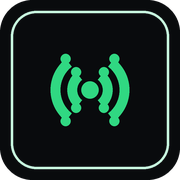
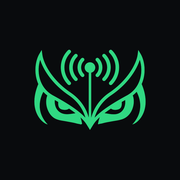
feat(brand): owl mark replaces the radio glyph
The name said OwlShack and the icon said "wireless" -- the one thing every
other mesh tool's icon also says. The new mark is an owl whose crown is an
antenna, so the two readings are one shape rather than two ideas.

The artwork is a hybrid export: the dot and six arcs are vector paths, but
the crescents and eyes are a 1696px grayscale raster used as a luminance
mask. That cannot be recoloured by changing a fill, which matters because
the app has a light mode. So the sidebar masks the SVG and paints it with
background: var(--primary) -- the alpha is the mark, the colour comes from
the theme. A 512px-wide copy is shipped for that (owl-mark.svg, half the
size of the master); the master stays in docs/.

Icons are composited rather than screenshotted. A headless render flattens
alpha, which silently turned every rounded corner white, and its colour
profile shifted the ground from #090b0d to #111315. They are now drawn at
4x and downsampled, so the ground is exact and the corners are real
transparency.

icon-192, icon-512 and favicon-32 keep transparent corners as before.
maskable-512 and apple-touch-icon are deliberately opaque and full-bleed:
Android crops the maskable to a circle, and iOS renders transparency in an
apple-touch-icon as black -- the previous file had transparent corners and
would have shown black ones on a home screen.

Known weak spot: at 32px the mast disappears and the arcs merge, so the
[…]

diff --git a/web/frontend/src/components/AppShell.tsx b/web/frontend/src/components/AppShell.tsx
@@ -366,10 +366,7 @@ export function AppShell({ children }: { children: React.ReactNode }) {
         <SidebarHeader className="border-b border-sidebar-border h-14 px-3 justify-center">
           <Link to="/" className="flex items-center gap-2.5">
             <div className="relative size-8 grid place-items-center rounded-sm bg-primary/10 border border-primary/30 shrink-0">
-              <Radio
-                className="size-4 text-primary"
-                strokeWidth={2}
-              />
+              <span className="owl-mark h-4 w-[22px] bg-primary" aria-hidden="true" />
               <span className="absolute -top-0.5 -right-0.5 size-1.5 rounded-full bg-primary scan-pulse" />
             </div>
             <div className="flex flex-col leading-tight group-data-[collapsible=icon]:hidden">

diff --git a/web/frontend/src/index.css b/web/frontend/src/index.css
@@ -290,6 +290,18 @@
   .scan-pulse {
     animation: scan-pulse 1.4s ease-in-out infinite;
   }
+  /* The logo art is raster-backed, so it is masked rather than drawn: the SVG's alpha is the mark
+     and the colour comes from the element, which keeps it on the theme in both light and dark. */
+  .owl-mark {
+    -webkit-mask-image: url("/owl-mark.svg");
+    mask-image: url("/owl-mark.svg");
+    -webkit-mask-size: contain;
+    mask-size: contain;
+    -webkit-mask-repeat: no-repeat;
+    mask-repeat: no-repeat;
+    -webkit-mask-position: center;
+    mask-position: center;
+  }
 }
 
 @keyframes scan-pulse {
